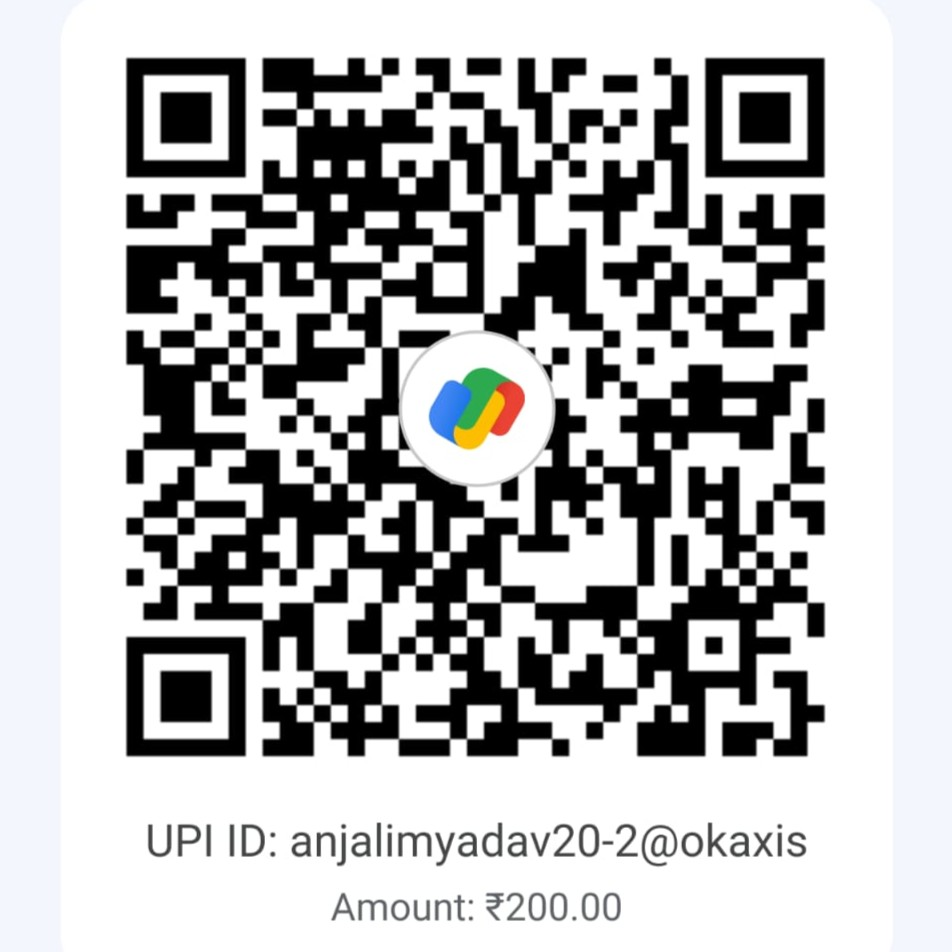
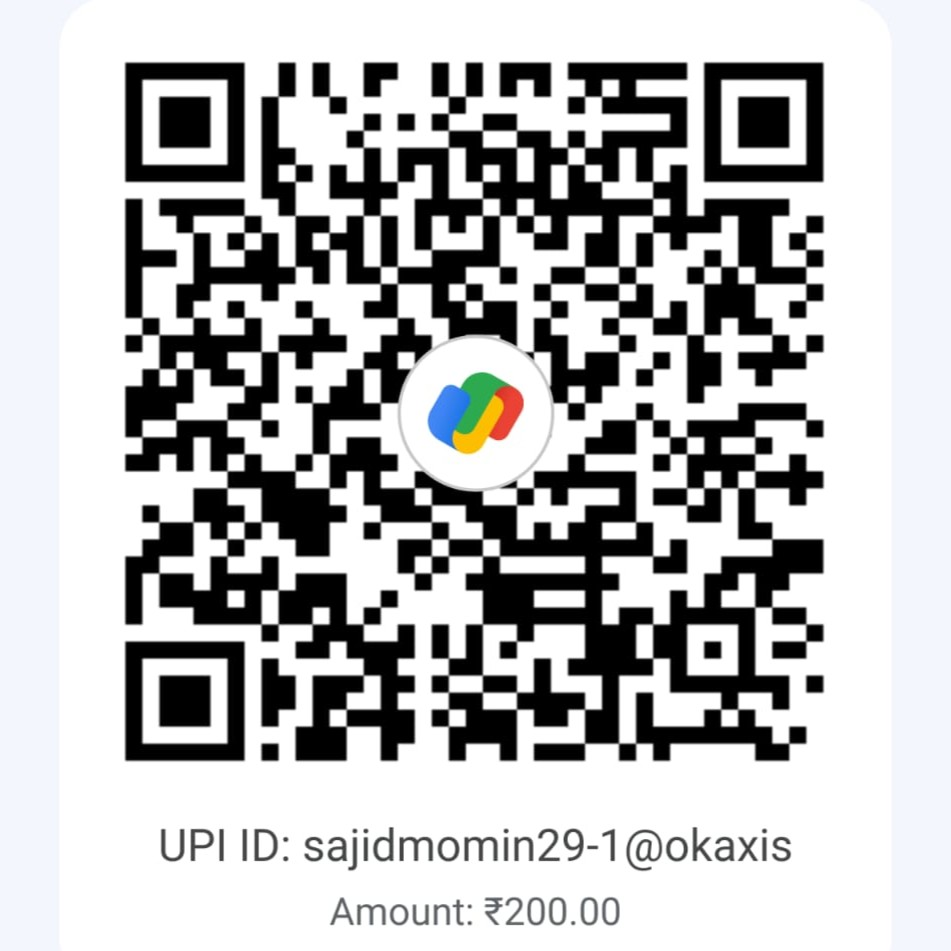
chore: update qr codes - sajid momain - aiml

diff --git a/app/(main)/events/[slug]/register/_components/RegistrationForm.tsx b/app/(main)/events/[slug]/register/_components/RegistrationForm.tsx
@@ -71,9 +71,7 @@ function Section({
         <Separator className="flex-1" />
       </div>
 
-      <div className="grid grid-cols-1 md:grid-cols-2 gap-4">
-        {children}
-      </div>
+      <div className="grid grid-cols-1 md:grid-cols-2 gap-4">{children}</div>
     </div>
   );
 }
